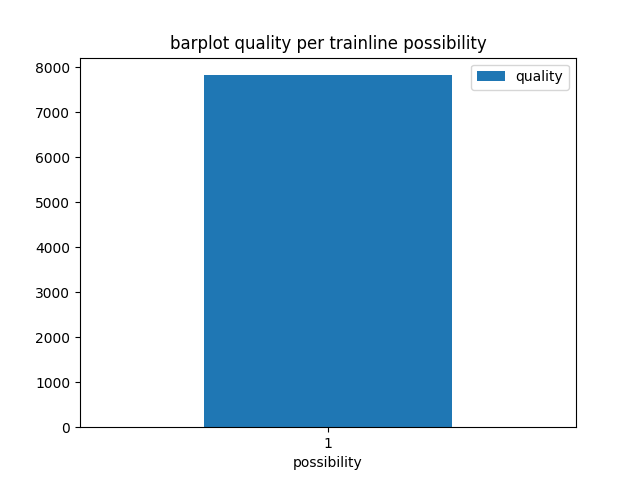
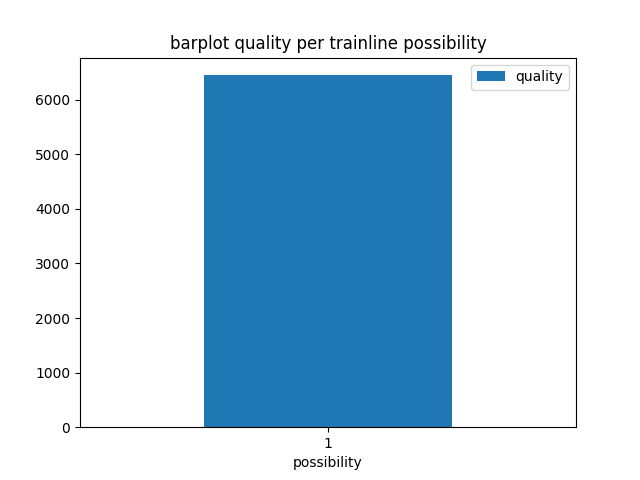
Line quality veranderd voor nationale connecties

diff --git a/codes/trials/line_quality.py b/codes/trials/line_quality.py
@@ -37,7 +37,7 @@ test_cases = [
 ]
 
 def score_calculation(trajects, path):
-    connections = load_connections(path / "data" / "ConnectiesHolland.csv")
+    connections = load_connections(path / "data" / "ConnectiesNationaal.csv")
     
     # create list to store dictionaries that contain possibility and quality
     dataframe_rows = []
@@ -102,7 +102,7 @@ def Min(connections: list([str, str, int]), trajects: dict):
         for i in range(len(traject)-1):
             for connection in connections:
                 if connection_equals_traject_part(connection, traject, i):
-                    total_minutes = total_minutes + int(connection[2])
+                    total_minutes = total_minutes + float(connection[2].strip())
     return total_minutes
 
 

diff --git a/main.py b/main.py
@@ -32,7 +32,7 @@ def main():
 
     # create a graph of all the trajects
     data = {train:stations.data_from_stations(trajects[train]) for train in trajects}
-    holland_graph(PATH, data, stations.bbox_limits())
+    #holland_graph(PATH, data, stations.bbox_limits())
     
     # calculate the quality of the trajects
     quality = score_calculation([trajects], PATH)

diff --git a/codes/trials/graph.py b/codes/trials/graph.py
@@ -1,8 +1,8 @@
 import matplotlib.pyplot as plt
 import pandas as pd
-import geopandas as gpd
+#import geopandas as gpd
 import numpy as np
-import plotly.graph_objects as go
+#import plotly.graph_objects as go
 
 
 # def holland_graph_1st(path, stations):
